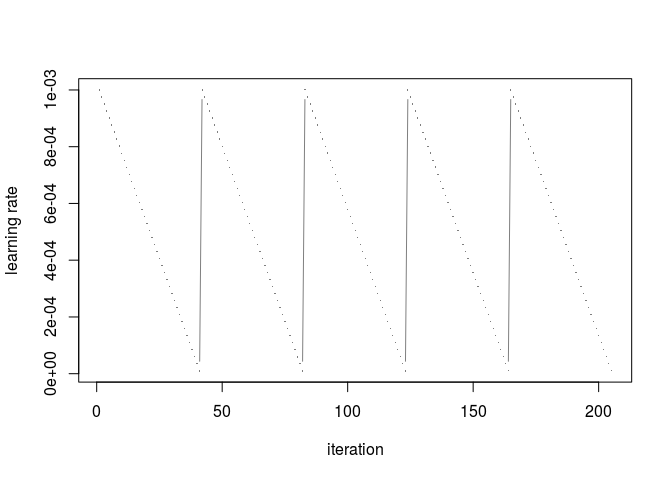
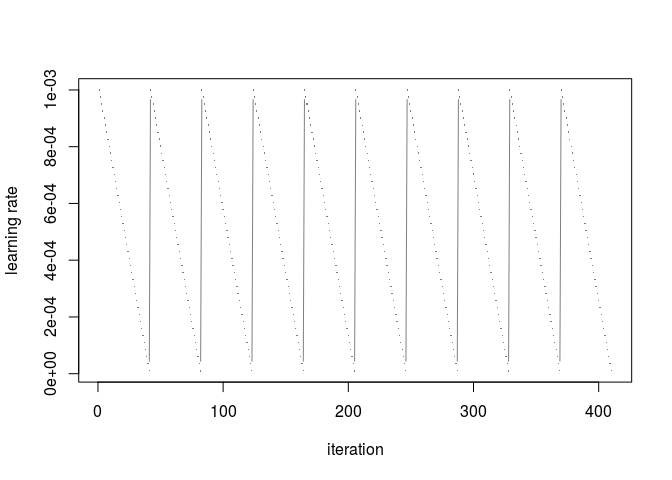
Revert "bigger image size, smaller batches"
This reverts commit e81cb89c0ceed6c0ba0a2b9167cd439d2476ab0a.

No significant improvement at least for now with bigger images. Keep on with images 224 to prototype faster.

diff --git a/resnet50-lr-finder-and-cyclic-lr-with-r.md b/resnet50-lr-finder-and-cyclic-lr-with-r.md
@@ -37,14 +37,14 @@ policy.
 library(tidyverse)
 ```
 
-    ## ── Attaching packages ─────────────────────────────────────────────────────────────────────────────────────────────────────── tidyverse 1.3.0 ──
+    ## ── Attaching packages ──────────────────────────────────────────────────────────────────────────────────────────────────────── tidyverse 1.3.0 ──
 
     ## ✓ ggplot2 3.3.0     ✓ purrr   0.3.4
     ## ✓ tibble  3.0.0     ✓ dplyr   0.8.5
     ## ✓ tidyr   1.0.2     ✓ stringr 1.4.0
     ## ✓ readr   1.3.1     ✓ forcats 0.5.0
 
-    ## ── Conflicts ────────────────────────────────────────────────────────────────────────────────────────────────────────── tidyverse_conflicts() ──
+    ## ── Conflicts ─────────────────────────────────────────────────────────────────────────────────────────────────────────── tidyverse_conflicts() ──
     ## x dplyr::filter() masks stats::filter()
     ## x dplyr::lag()    masks stats::lag()
 
@@ -261,8 +261,8 @@ train_generator <- flow_images_from_dataframe(dataframe = train_labels,
                                               class_mode = "other",
                                               x_col = "image_id",
                                               y_col = c("healthy", "multiple_diseases", "rust", "scab"),
-                                              target_size = c(512, 512),
-                                              batch_size=8)
+                                              target_size = c(224, 224),
+                                              batch_size=32)
 ```
 
 ``` r
@@ -271,8 +271,8 @@ validation_generator <- flow_images_from_dataframe(dataframe = val_labels,
                                               class_mode = "other",
                                               x_col = "image_id",
                                               y_col = c("healthy", "multiple_diseases", "rust", "scab"),
-                                              target_size = c(512, 512),
-                                              batch_size=8)
+                                              target_size = c(224, 224),
+                                              batch_size=32)
 ```
 
 ``` r
@@ -287,8 +287,8 @@ str(batch)
 ```
 
     ## List of 2
-    ##  $ : num [1:8, 1:512, 1:512, 1:3] 93.8 118.1 69.7 79.8 77 ...
-    ##  $ : num [1:8, 1:4] 1 0 0 0 1 0 0 0 0 0 ...
+    ##  $ : num [1:32, 1:224, 1:224, 1:3] 76 52.8 110 135 48.1 ...
+    ##  $ : num [1:32, 1:4] 0 0 0 1 0 0 0 0 1 0 ...
 
 # Import pre-trained model
 
@@ -297,7 +297,7 @@ came from the default if include\_top is set to
 true.
 
 ``` r
-conv_base <- application_resnet50(weights = 'imagenet', include_top = FALSE, input_shape = c(512, 512, 3))
+conv_base <- application_resnet50(weights = 'imagenet', include_top = FALSE, input_shape = c(224, 224, 3))
 ```
 
 ``` r
@@ -332,8 +332,7 @@ fast\_ai](https://docs.fast.ai/vision.learner.html#create_head). Since
 there is a “funny” pooling operation, The AdaptiveConcatPool2d (adaptive
 average pooling and adaptive max pooling), I will use a max pooling,
 because we are most interresting to know if there is a rust or scab,
-that something on “average”. After testing, adding a
-layer\_global\_average\_pooling\_2d() indeed gave poor results.
+that something on “average”.
 
 One of the most important aspect of deep learning is to set up a good
 loss function and last layer activation. Since it is a **multiclass**
@@ -358,7 +357,7 @@ model
     ## ________________________________________________________________________________
     ## Layer (type)                        Output Shape                    Param #     
     ## ================================================================================
-    ## resnet50 (Model)                    (None, 16, 16, 2048)            23587712    
+    ## resnet50 (Model)                    (None, 7, 7, 2048)              23587712    
     ## ________________________________________________________________________________
     ## global_max_pooling2d_1 (GlobalMaxPo (None, 2048)                    0           
     ## ________________________________________________________________________________
@@ -460,7 +459,7 @@ history <- model %>% fit_generator(
     epochs = 1,
     callbacks = callback_list,
     validation_data = validation_generator,
-    validation_step=20
+    validation_step=30
 )
 ```
 
@@ -470,12 +469,12 @@ head(data)
 ```
 
     ##   Learning_rate      Loss
-    ## 1  1.145048e-08 1.0479560
-    ## 2  1.311134e-08 1.0900357
-    ## 3  1.501311e-08 1.3692715
-    ## 4  1.719072e-08 0.8332791
-    ## 5  1.968419e-08 0.9705950
-    ## 6  2.253934e-08 0.9747454
+    ## 1  1.145048e-08 1.0334737
+    ## 2  1.311134e-08 1.2092899
+    ## 3  1.501311e-08 1.1567343
+    ## 4  1.719072e-08 0.9763259
+    ## 5  1.968419e-08 0.9965426
+    ## 6  2.253934e-08 1.0602639
 
 Learning rate vs loss
 :
@@ -584,7 +583,7 @@ Cyclic_LR <- function(iteration=1:32000, base_lr=1e-5, max_lr=1e-3, step_size=20
 
 ``` r
 n=40
-nb_epochs=5
+nb_epochs=10
 n_iter<-n*nb_epochs
 ```
 
@@ -614,15 +613,7 @@ plot(l_rate, type="b", pch=16, xlab="iteration", cex=0.2, ylab="learning rate", 
 
 ![](resnet50-lr-finder-and-cyclic-lr-with-r_files/figure-gfm/unnamed-chunk-44-1.png)<!-- -->
 
-#### Combining the two
-
-NB : I reduced the number of epoch in the previous chunk to made the
-graphs more readable. We will change it here
-:
-
-``` r
-nb_epochs=15
-```
+##### Combining the two
 
 ``` r
 l_rate_cyclical <- Cyclic_LR(iteration=1:n, base_lr=1e-5, max_lr=1e-3, step_size=floor(n/2),
@@ -641,7 +632,7 @@ l_rate <- rep(c(l_rate_cyclical, l_rate_cosine_annealing), nb_epochs/2)
 plot(l_rate, type="b", pch=16, xlab="iteration", cex=0.2, ylab="learning rate", col="grey50")
 ```
 
-![](resnet50-lr-finder-and-cyclic-lr-with-r_files/figure-gfm/unnamed-chunk-47-1.png)<!-- -->
+![](resnet50-lr-finder-and-cyclic-lr-with-r_files/figure-gfm/unnamed-chunk-46-1.png)<!-- -->
 
 Clean model for training :
 
@@ -678,7 +669,7 @@ history <- model %>% fit_generator(
     epochs = nb_epochs,
     callbacks = callback_list, #callback to update cylic lr
     validation_data = validation_generator,
-    validation_step=20
+    validation_step=50
 )
 ```
 
@@ -702,7 +693,7 @@ Based on the previous graph, I used a learning rate of 1e-3. The article
 [The 1cycle policy](https://sgugger.github.io/the-1cycle-policy.html),
 mentionned that we can use a bigger learning rate as a regularizer, but
 a maximum learning rate of 5e-3 gave average results in my my previous
-attempt (NB : **for an image size of 224**) :
+attempt :
 
 ![Val loss and Train loss for a maximum learning rate of
 5e-3](resnet50-lr-finder-and-cyclic-lr-with-r_files/figure-gfm/maxlr5e3.png)
